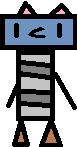
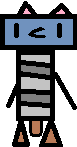
.

Changed region(s): [[0.3636, 0.8163, 0.5714, 0.9524]]

diff --git a/main.js b/main.js
@@ -598,6 +598,16 @@ function onKeyDown(e) {
 				id: 'player',
 				motion: 'right'
 			});
+		} else if (e.code == 'ArrowUp') {
+			animate({
+				id: 'player',
+				motion: 'up'
+			});
+		} else if (e.code == 'ArrowDown') {
+			animate({
+				id: 'player',
+				motion: 'down'
+			});
 		}
 	}
 	keysDown[e.code] = true;

diff --git a/characters.js b/characters.js
@@ -6,10 +6,11 @@ characters = {
 			'player standing.png',
 		],
 		up: [
-			'player standing.png',
+			'player up.png',
 		],
 		down: [
-			'player standing.png',
+			'player down 01.png',
+			'player down 02.png',
 		],
 		left: [
 			'player left 01.png',
